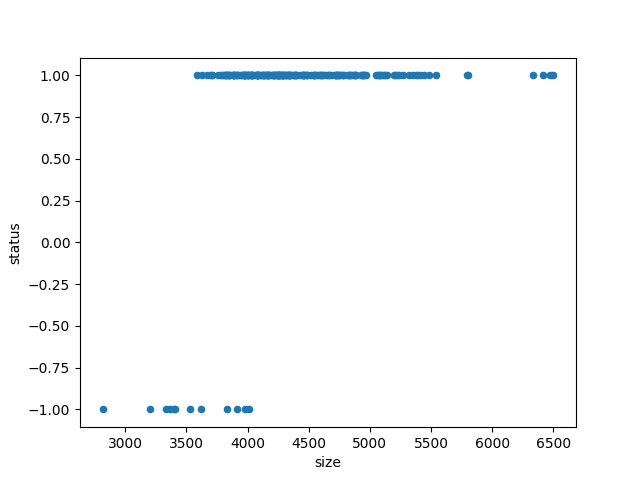
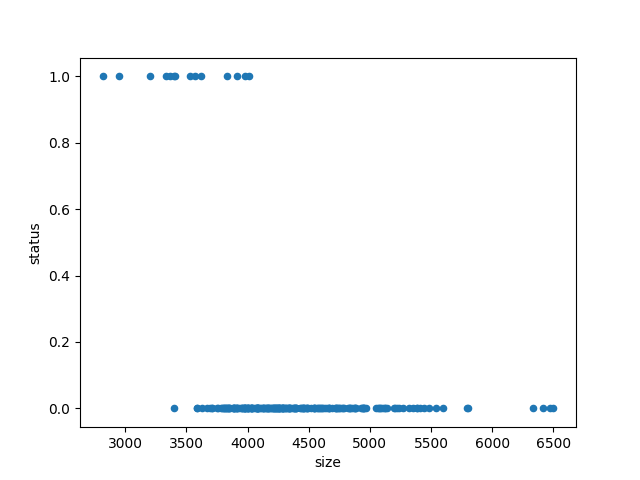
Add some documentation and fixes to SVM model
Make the README a bit more useful, and the setuptools entry points
a bit more meaningful.

Make a few fixes and update the example image as well.

diff --git a/ciml/trainer.py b/ciml/trainer.py
@@ -35,21 +35,22 @@ def normalize_example(result, normalized_length=5500):
 
     # Fix length of dataset
     init_len = len(result)
-    dstat_keys = result.keys()
+    example = result['dstat']
+    dstat_keys = example.keys()
 
     if init_len > normalized_length:
-        result = result[:normalized_length]
+        example = example[:normalized_length]
     elif init_len < normalized_length:
         pad_length = normalized_length - init_len
         padd = pd.DataFrame(0, index=np.arange(pad_length), columns=dstat_keys)
-        result = pd.concat([result, padd])
+        example = pd.concat([example, padd])
     # Vectorize the dataframe
     vector = pd.Series()
     labels = pd.Series()
     # Vectors are unrolled examples
     # Labels are example_ids
     for key in dstat_keys:
-        vector = pd.concat([vector, result[key]])
+        vector = pd.concat([vector, example[key]])
         labels = pd.concat(
             [labels, pd.Series(key, index=np.arange(normalized_length))])
     # Status is 0 for success, 1 for fail
@@ -81,7 +82,7 @@ def mqtt_trainer():
         classes = []
         labels_list = []
         for result in results:
-            vector, labels, status = normalize_example(result['dstat'])
+            vector, labels, status = normalize_example(result)
             examples = vector
             classes = status
             labels_list = labels
@@ -114,13 +115,15 @@ def db_trainer(train, estimator, dataset, build_name, db_uri):
 
 
 @click.command()
+@click.option('--train/--no-train', default=True,
+              help="Whether to only build the dataset or train as well.")
 @click.option('--estimator', default='tf.estimator.DNNClassifier',
               help='Type of model to be used (not implemented yet).')
 @click.option('--dataset', default="dataset",
               help="Name of the dataset folder.")
 @click.option('--visualize/--no-visualize', default=False,
               help="Visualize data")
-def local_trainer(estimator, dataset, visualize):
+def local_trainer(train, estimator, dataset, visualize):
 
     # Our methods expect an object with an uuid field, so build one
     class _run(object):
@@ -162,5 +165,6 @@ def local_trainer(estimator, dataset, visualize):
     # TODO(andreaf) We should really train on half of the examples
     # The cross-validate on the other half
     # And finally predict on the MQTT inputs
-    model = svm_trainer.SVMTrainer(examples, run_uuids, labels, classes)
-    model.train()
+    if train:
+        model = svm_trainer.SVMTrainer(examples, run_uuids, labels, classes)
+        model.train()

diff --git a/ciml/svm_trainer.py b/ciml/svm_trainer.py
@@ -25,7 +25,7 @@ class SVMTrainer(object):
         # Define feature names including the original CSV column name
         self.feature_columns = [
             tf.contrib.layers.real_valued_column(v + str(k))
-            for k, v in zip(examples, labels)]
+            for k, v in labels.items()]
         self.example_ids = example_ids
         self.examples = examples
         self.classes = classes
@@ -43,8 +43,9 @@ class SVMTrainer(object):
         num_examples = len(self.examples)
         # Dict comprehension to build a dict of features
         # I suppose numpy might be able to do this more efficiently
-        _features = {self.labels[n]: [x[n] for x in self.examples]
-                     for n in range(num_examples)}
+        _features = {
+            self.feature_columns[n].column_name: [x[n] for x in self.examples]
+            for n in range(num_examples)}
         _features['example_id'] = tf.constant(self.example_ids)
         return _features, tf.constant(self.classes)
 

diff --git a/README.rst b/README.rst
@@ -1,5 +1,66 @@
+====
 CIML
 ====
 
 ciml (CI machine learning) is a machine learning pipeline for analyzing CI
 results.
+
+Getting Started
+---------------
+
+To us ciml, you have to collect a dataset and train the model. Once that's done
+you can perform predictions on new data using the MQTT triggered pipeline.
+
+To collect a dataset, use ciml-build-dataset:
+
+.. code:: shell
+
+  ciml-build-dataset --dataset <dataset-name> --build-name <build_name>
+
+This connects to the OpenStack subunit2sql database, fetch all runs that
+match the specified build_name and try to download the dstat data from
+logs.openstack.org. The dstat file and build results are stored gzipped
+under data/<dataset-name>/raw.
+
+Running ciml-build-dataset with the same dataset again extends the dataset if
+new results are found.
+
+Full more help run:
+
+.. code:: shell
+
+  ciml-build-dataset --help
+
+
+To train the model, ciml-build-dataset:
+
+.. code:: shell
+
+  ciml-train-model --dataset <dataset-name>
+
+This looks in the raw data folder and loads the list of runs (examples) from
+there along with the test results (classes: pass or failed).
+Data is normalised and then passed to the trainer for train the model.
+
+Full more help run:
+
+.. code:: shell
+
+  ciml-train-model --help
+
+It is also possible to visualize the lenght of example prior to normalization,
+and how it maps to the example class (0 for passed, 1 for failed).
+To produce the graph, run:
+
+.. code:: shell
+
+  ciml-train-model --dataset <dataset-name> --no-train --visualize
+
+.. image:: sizes_by_result.png
+
+
+To start the MQTT triggered pipeline, and make predictions on new data, use:
+
+.. code:: shell
+
+  ciml-mqtt-trainer
